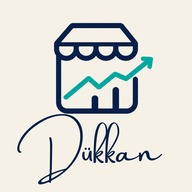
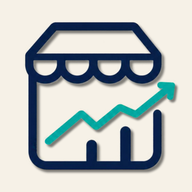
Add files via upload

diff --git a/index.html b/index.html
@@ -4,25 +4,35 @@
 <meta charset="utf-8">
 <meta name="viewport" content="width=device-width,initial-scale=1,viewport-fit=cover">
 <meta name="theme-color" content="#111111">
+<meta name="color-scheme" content="light dark">
 <link rel="manifest" href="manifest.json">
 <meta name="apple-mobile-web-app-title" content="Dükkan">
-<link rel="apple-touch-icon" sizes="180x180" href="icon-light-180.png">
-<link rel="icon" type="image/png" sizes="192x192" href="icon-light-192.png" media="(prefers-color-scheme: light)">
-<link rel="icon" type="image/png" sizes="192x192" href="icon-dark-192.png" media="(prefers-color-scheme: dark)">
+<link rel="apple-touch-icon" id="touch" sizes="180x180" href="icon-light-180.png">
+<link rel="icon" id="fav" type="image/png" sizes="192x192" href="icon-light-192.png">
 <title>Dükkan</title>
+<script>
+(function(){var p='system';try{p=localStorage.getItem('dukkan-theme')||'system'}catch(e){}
+var d=p==='dark'||(p==='system'&&matchMedia('(prefers-color-scheme: dark)').matches);
+document.documentElement.dataset.theme=d?'dark':'light'})();
+</script>
 <style>
 @font-face{font-family:"Priestacy";src:url("Priestacy.otf") format("opentype");font-weight:400;font-style:normal;font-display:swap}
-:root{--bg:#f5f5f7;--card:#fff;--text:#111;--muted:#777;--line:#e9e9ec;--accent:#111;--green:#22a06b;--orange:#f59e0b}
+:root{--bg:#f5f5f7;--card:#fff;--text:#111;--muted:#777;--line:#e9e9ec;--ink:#111;--on-ink:#fff;--chip:#f0f0f2;--chip-text:#555;--green:#22a06b;--green-bg:#e8f7ef;--green-text:#14734b;--nav-bg:rgba(255,255,255,.94);--nav-muted:#8a8a8f;--shadow:#0002;--seg-bg:#ececf0;color-scheme:light}
+:root[data-theme="dark"]{--bg:#07142b;--card:#0e2142;--text:#f2f4f8;--muted:#8fa0bd;--line:#1c3157;--ink:#f2f4f8;--on-ink:#07142b;--chip:#163058;--chip-text:#b5c3dc;--green:#3ec98a;--green-bg:#0f3a2f;--green-text:#6fe0ae;--nav-bg:rgba(7,20,43,.92);--nav-muted:#7586a6;--shadow:#0006;--seg-bg:#0a1a35;color-scheme:dark}
 *{box-sizing:border-box}body{margin:0;background:var(--bg);font-family:-apple-system,BlinkMacSystemFont,"SF Pro Display","Segoe UI",sans-serif;color:var(--text)}
-.app{max-width:520px;margin:auto;min-height:100vh;padding-bottom:88px}.top{padding:22px 20px 12px;display:flex;justify-content:space-between;align-items:center}.brand{font-family:"Priestacy","Snell Roundhand","Segoe Script",cursive;font-size:36px;font-weight:400;letter-spacing:0;line-height:1;margin-bottom:14px}.sub{font-size:13px;color:var(--muted);margin-top:3px}.avatar{width:40px;height:40px;border-radius:50%;background:#111;color:#fff;display:grid;place-items:center;font-weight:700}
+button{font-family:inherit;color:inherit}
+.app{max-width:520px;margin:auto;min-height:100vh;padding-bottom:88px}.top{padding:22px 20px 12px;display:flex;justify-content:space-between;align-items:center}.brand{font-family:"Priestacy","Snell Roundhand","Segoe Script",cursive;font-size:36px;font-weight:400;letter-spacing:0;line-height:1;margin-bottom:14px}.sub{font-size:13px;color:var(--muted);margin-top:3px}.avatar{width:40px;height:40px;border-radius:50%;background:var(--ink);color:var(--on-ink);display:grid;place-items:center;font-weight:700}
 .content{padding:8px 16px}.hello{font-size:27px;font-weight:750;letter-spacing:-.7px;margin:12px 4px 3px}.date{color:var(--muted);font-size:14px;margin:0 4px 18px}
 .grid{display:grid;grid-template-columns:1fr 1fr;gap:10px}.stat{background:var(--card);border:1px solid var(--line);border-radius:18px;padding:16px}.label{font-size:12px;color:var(--muted)}.value{font-size:23px;font-weight:750;margin-top:7px}.delta{font-size:11px;color:var(--green);margin-top:5px}
-.section{display:flex;justify-content:space-between;align-items:center;margin:24px 4px 11px}.section h2{font-size:17px;margin:0}.link{font-size:12px;color:#666}
-.card{background:var(--card);border:1px solid var(--line);border-radius:18px;padding:5px 0;overflow:hidden}.appointment{display:flex;gap:12px;padding:15px 15px;border-bottom:1px solid var(--line)}.appointment:last-child{border:0}.time{width:43px;font-size:12px;font-weight:650;padding-top:3px}.dot{width:9px;height:9px;border-radius:50%;background:#111;margin-top:5px}.apptmain{flex:1}.name{font-weight:650;font-size:14px}.service{font-size:12px;color:var(--muted);margin-top:4px}.price{font-weight:650;font-size:13px}.badge{display:inline-block;margin-top:6px;padding:4px 7px;border-radius:8px;background:#f0f0f2;color:#555;font-size:10px}.badge.green{background:#e8f7ef;color:#14734b}
-.quick{display:grid;grid-template-columns:repeat(3,1fr);gap:9px}.quick button{border:1px solid var(--line);background:#fff;border-radius:15px;padding:14px 7px;font-size:12px;font-weight:600}.quick span{display:block;font-size:20px;margin-bottom:6px}
-.bottom{position:fixed;bottom:0;left:50%;transform:translateX(-50%);width:min(520px,100%);height:76px;background:rgba(255,255,255,.94);backdrop-filter:blur(18px);border-top:1px solid var(--line);display:flex;justify-content:space-around;padding-top:9px;padding-bottom:env(safe-area-inset-bottom)}.nav{border:0;background:none;color:#8a8a8f;font-size:10px;font-weight:600}.nav.active{color:#111}.nav i{font-style:normal;font-size:21px;display:block;margin-bottom:4px}
+.section{display:flex;justify-content:space-between;align-items:center;margin:24px 4px 11px}.section h2{font-size:17px;margin:0}.link{font-size:12px;color:var(--muted)}
+.card{background:var(--card);border:1px solid var(--line);border-radius:18px;padding:5px 0;overflow:hidden}.appointment{display:flex;gap:12px;padding:15px 15px;border-bottom:1px solid var(--line)}.appointment:last-child{border:0}.time{width:43px;font-size:12px;font-weight:650;padding-top:3px}.dot{width:9px;height:9px;border-radius:50%;background:var(--ink);margin-top:5px}.apptmain{flex:1}.name{font-weight:650;font-size:14px}.service{font-size:12px;color:var(--muted);margin-top:4px}.price{font-weight:650;font-size:13px}.badge{display:inline-block;margin-top:6px;padding:4px 7px;border-radius:8px;background:var(--chip);color:var(--chip-text);font-size:10px}.badge.green{background:var(--green-bg);color:var(--green-text)}
+.quick{display:grid;grid-template-columns:repeat(3,1fr);gap:9px}.quick button{border:1px solid var(--line);background:var(--card);color:var(--text);border-radius:15px;padding:14px 7px;font-size:12px;font-weight:600}.quick span{display:block;font-size:20px;margin-bottom:6px}
+.bottom{position:fixed;bottom:0;left:50%;transform:translateX(-50%);width:min(520px,100%);height:76px;background:var(--nav-bg);backdrop-filter:blur(18px);-webkit-backdrop-filter:blur(18px);border-top:1px solid var(--line);display:flex;justify-content:space-around;padding-top:9px;padding-bottom:env(safe-area-inset-bottom)}.nav{border:0;background:none;color:var(--nav-muted);font-size:10px;font-weight:600}.nav.active{color:var(--ink)}.nav i{font-style:normal;font-size:21px;display:block;margin-bottom:4px}
 .screen{display:none}.screen.active{display:block}
-.listrow{background:#fff;border:1px solid var(--line);border-radius:16px;padding:15px;margin-bottom:9px}.rowtop{display:flex;justify-content:space-between}.muted{color:var(--muted);font-size:12px;margin-top:4px}.pill{font-size:10px;background:#eee;padding:5px 8px;border-radius:8px}.calendar{background:#fff;border:1px solid var(--line);border-radius:18px;padding:15px}.days{display:grid;grid-template-columns:repeat(7,1fr);gap:4px;text-align:center}.day{padding:8px 2px;font-size:11px;color:#777}.day.sel{background:#111;color:#fff;border-radius:10px}.slots{margin-top:13px}.slot{display:flex;gap:12px;padding:13px 4px;border-bottom:1px solid var(--line);font-size:12px}.slot b{width:42px}.fab{position:fixed;right:max(20px,calc((100% - 520px)/2 + 20px));bottom:95px;width:52px;height:52px;border:0;border-radius:18px;background:#111;color:#fff;font-size:25px;box-shadow:0 10px 30px #0002}
+.listrow{background:var(--card);border:1px solid var(--line);border-radius:16px;padding:15px;margin-bottom:9px}.rowtop{display:flex;justify-content:space-between}.muted{color:var(--muted);font-size:12px;margin-top:4px}.pill{font-size:10px;background:var(--chip);color:var(--chip-text);padding:5px 8px;border-radius:8px}.calendar{background:var(--card);border:1px solid var(--line);border-radius:18px;padding:15px}.days{display:grid;grid-template-columns:repeat(7,1fr);gap:4px;text-align:center}.day{padding:8px 2px;font-size:11px;color:var(--muted)}.day.sel{background:var(--ink);color:var(--on-ink);border-radius:10px}.slots{margin-top:13px}.slot{display:flex;gap:12px;padding:13px 4px;border-bottom:1px solid var(--line);font-size:12px}.slot b{width:42px}.fab{position:fixed;right:max(20px,calc((100% - 520px)/2 + 20px));bottom:95px;width:52px;height:52px;border:0;border-radius:18px;background:var(--ink);color:var(--on-ink);font-size:25px;box-shadow:0 10px 30px var(--shadow)}
+.setlabel{font-size:12px;color:var(--muted);margin:22px 4px 8px}
+.seg{display:grid;grid-template-columns:repeat(3,1fr);gap:4px;background:var(--seg-bg);border-radius:14px;padding:4px}.seg button{border:0;background:none;color:var(--muted);font-size:13px;font-weight:600;padding:10px 6px;border-radius:11px}.seg button[aria-pressed="true"]{background:var(--card);color:var(--text);box-shadow:0 1px 4px var(--shadow)}
+.setrow{display:flex;align-items:center;gap:14px}.appicon{width:56px;height:56px;border-radius:13px;border:1px solid var(--line)}
 </style>
 </head>
 <body>
@@ -67,17 +77,45 @@
 <div class="listrow"><div class="rowtop"><b>Ayşe Demir</b><span>₺8.900</span></div><div class="muted">8 ziyaret · Son ziyaret: 21 Eylül</div></div>
 <div class="listrow"><div class="rowtop"><b>Mehmet Kaya</b><span>₺2.750</span></div><div class="muted">5 ziyaret · Son ziyaret: bugün</div></div>
 </section>
+
+<section id="settings" class="screen">
+<div class="hello">Ayarlar</div><div class="date">Uygulama tercihlerin</div>
+<div class="setlabel">Görünüm</div>
+<div class="seg" role="group" aria-label="Görünüm">
+<button data-theme-pref="light">Açık</button><button data-theme-pref="dark">Koyu</button><button data-theme-pref="system">Sistem</button>
+</div>
+<div class="muted" style="margin:8px 4px 0">Sistem seçiliyse telefonunun açık/koyu ayarını takip eder.</div>
+<div class="setlabel">Uygulama</div>
+<div class="listrow"><div class="setrow"><img id="appicon" class="appicon" src="icon-light-180.png" alt=""><div><b>Dükkan</b><div class="muted">Ön-As Kuaför · v1.0.0</div></div></div></div>
+</section>
 </main>
 <nav class="bottom">
 <button class="nav active" data-target="home"><i>⌂</i>Ana Sayfa</button>
 <button class="nav" data-target="calendar"><i>□</i>Takvim</button>
 <button class="nav" data-target="appointments"><i>◷</i>Randevular</button>
 <button class="nav" data-target="customers"><i>♙</i>Müşteriler</button>
+<button class="nav" data-target="settings"><i>⚙&#xFE0E;</i>Ayarlar</button>
 </nav>
 </div>
 <script>
 const navs=document.querySelectorAll('.nav'), screens=document.querySelectorAll('.screen');
 navs.forEach(n=>n.onclick=()=>{navs.forEach(x=>x.classList.remove('active'));n.classList.add('active');screens.forEach(s=>s.classList.toggle('active',s.id===n.dataset.target));window.scrollTo(0,0)});
+
+const THEME_KEY='dukkan-theme', mq=matchMedia('(prefers-color-scheme: dark)');
+const getPref=()=>{try{return localStorage.getItem(THEME_KEY)||'system'}catch(e){return 'system'}};
+function applyTheme(){
+  const p=getPref(), dark=p==='dark'||(p==='system'&&mq.matches), t=dark?'dark':'light';
+  document.documentElement.dataset.theme=t;
+  document.querySelector('meta[name="theme-color"]').content=dark?'#07142b':'#111111';
+  document.getElementById('fav').href='icon-'+t+'-192.png';
+  document.getElementById('touch').href='icon-'+t+'-180.png';
+  document.getElementById('appicon').src='icon-'+t+'-180.png';
+  document.querySelectorAll('[data-theme-pref]').forEach(b=>b.setAttribute('aria-pressed',String(b.dataset.themePref===p)));
+}
+document.querySelectorAll('[data-theme-pref]').forEach(b=>b.onclick=()=>{try{localStorage.setItem(THEME_KEY,b.dataset.themePref)}catch(e){}applyTheme()});
+mq.addEventListener('change',applyTheme);
+applyTheme();
+
 if('serviceWorker' in navigator) navigator.serviceWorker.register('sw.js').catch(()=>{});
 </script>
 </body>
